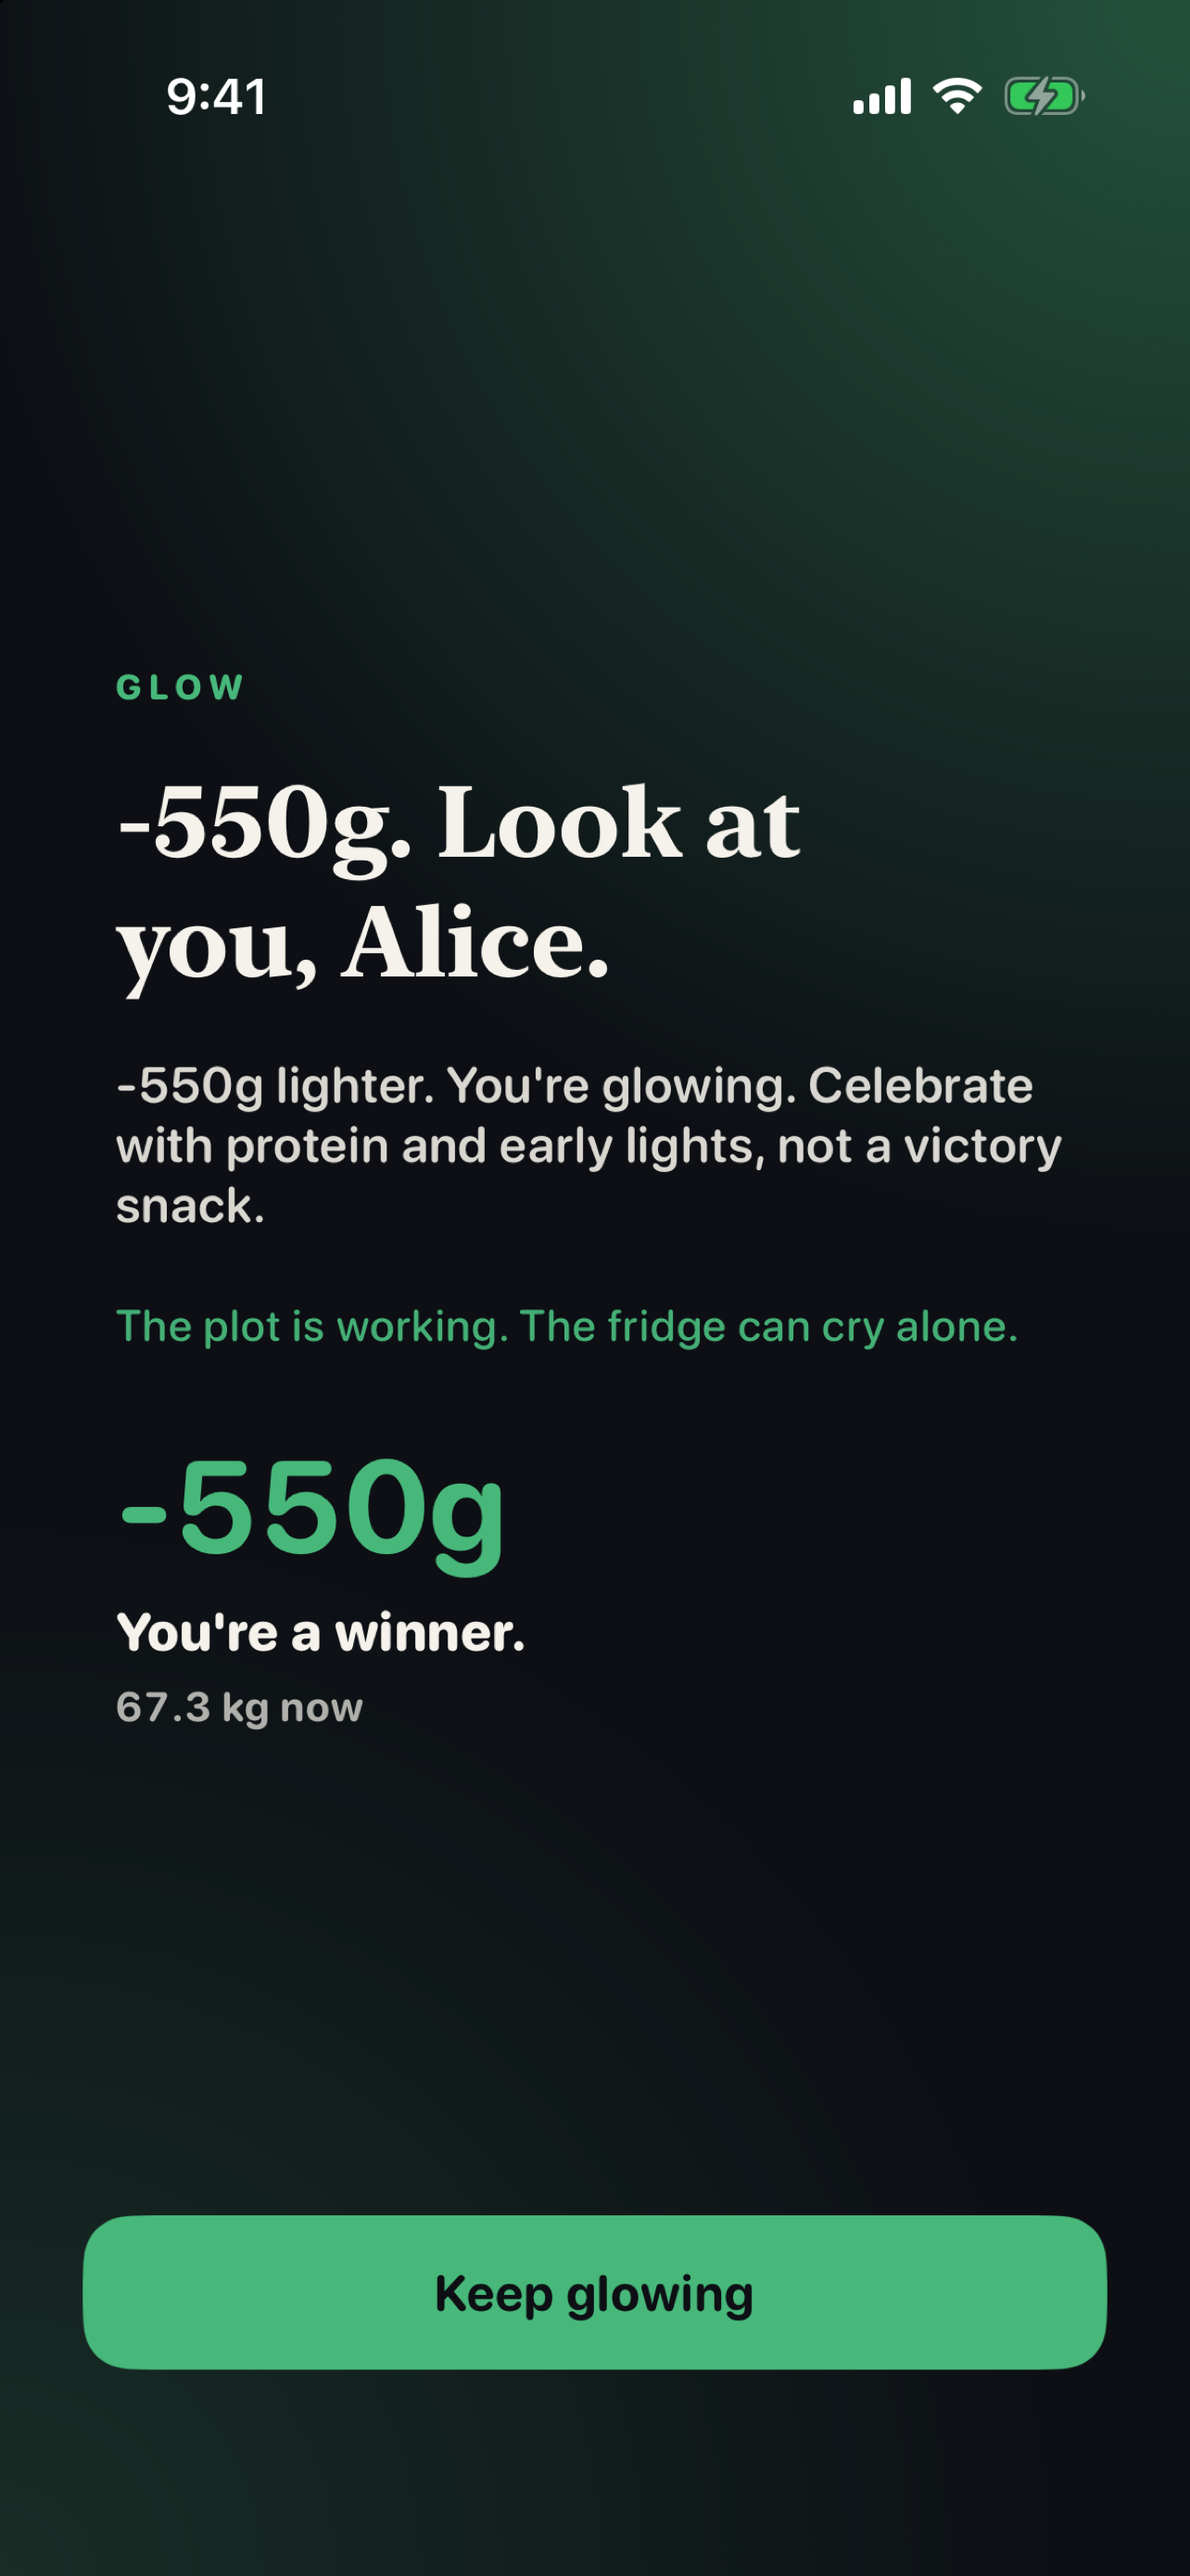
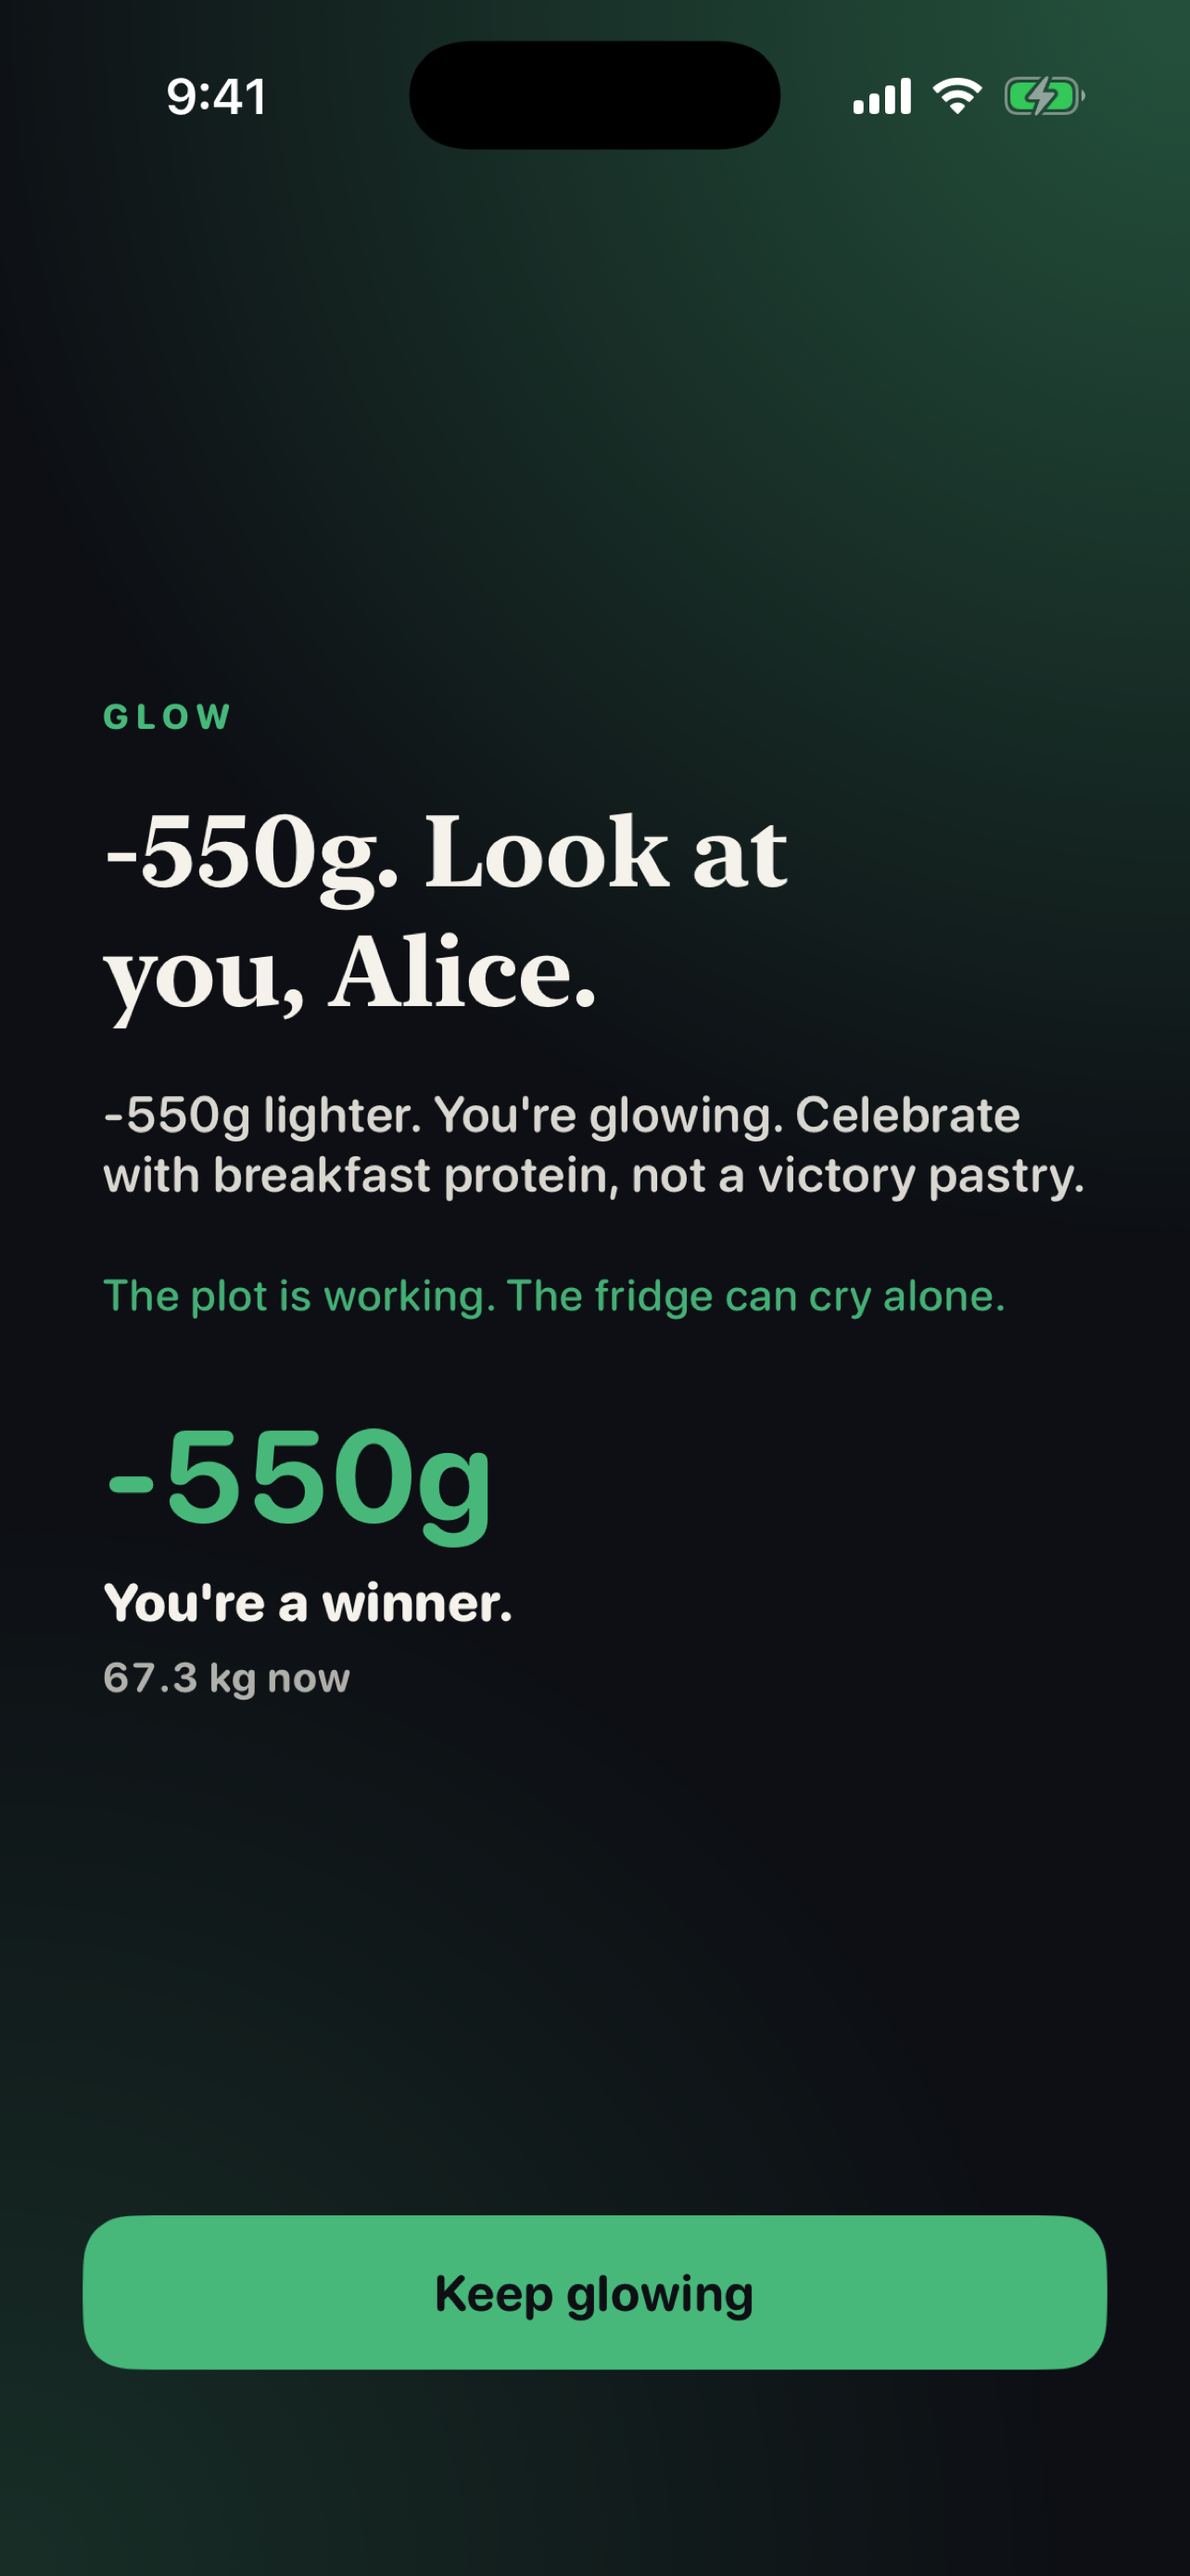
fix(ios): morning-weigh copy on win heroes — no bedtime advice (1.0.103)
Post-weigh win lines now assume morning weigh-ins (breakfast protein / get on with the day), and ASC win screenshots are re-captured.

Changed region(s): [[0.0935, 0.2477, 0.9034, 0.5263], [0.0935, 0.5572, 0.4361, 0.6811], [0.3427, 0.0, 0.6542, 0.0619]]

diff --git a/TheScale/TheScale/Models/ScaleSessionViewModel.swift b/TheScale/TheScale/Models/ScaleSessionViewModel.swift
@@ -1082,7 +1082,7 @@ final class ScaleSessionViewModel: ObservableObject {
             card = WeighInAnalysisCard(
                 tone: .encourage,
                 headline: "\(signed). The fridge is in mourning, \(name).",
-                body: "\(signed) since last. You're a winner. Don't celebrate with chaos. Protein, then bed.",
+                body: "\(signed) since last. You're a winner. Don't celebrate with chaos. Palm of protein, then get on with the day.",
                 deltaKg: delta,
                 weighedKg: weighed,
                 createdAt: Date(),
@@ -1095,7 +1095,7 @@ final class ScaleSessionViewModel: ObservableObject {
             card = WeighInAnalysisCard(
                 tone: .encourage,
                 headline: "\(signed). Look at you, \(name).",
-                body: "\(signed) lighter. You're glowing. Celebrate with protein and early lights, not a victory snack.",
+                body: "\(signed) lighter. You're glowing. Celebrate with breakfast protein, not a victory pastry.",
                 deltaKg: delta,
                 weighedKg: weighed,
                 createdAt: Date(),

diff --git a/TheScale/TheScale/Coaching/WeighInAnalysisEngine.swift b/TheScale/TheScale/Coaching/WeighInAnalysisEngine.swift
@@ -268,7 +268,7 @@ enum WeighInAnalysisEngine {
             ]
             let bodies = [
                 "\(signed) since last. Keep the boring streak. Dream weight is still \(remain) away, and you're walking it.",
-                "\(signed). You're a winner. Celebrate with protein and early lights, not chaos.",
+                "\(signed). You're a winner. Celebrate with breakfast protein, not chaos.",
                 "\(signed) lighter. The plot is working. Stay delightfully dull on purpose."
             ]
             return (
@@ -297,7 +297,7 @@ enum WeighInAnalysisEngine {
             ]
             let bodies = [
                 "\(signed) since last. Keep the boring streak. Ideal still \(remain) away.",
-                "\(signed). You're a winner. Don't celebrate with chaos. Protein, then bed.",
+                "\(signed). You're a winner. Don't celebrate with chaos. Palm of protein, then get on with the day.",
                 "\(signed) lighter. The plot is working. Stay dull on purpose."
             ]
             return (
